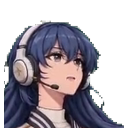
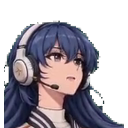
待机会动了但仍闭嘴：把最闭那一帧的嘴部羽化贴回整段
上一版待机是单帧 + 程序呼吸，因为源片全片口型都在动，找不到闭嘴动画段。
但镜头是固定的——实测耳机高亮质心在整段 24 帧里抖动不到 1.5px——
所以可以把第 6.25 秒（全片口型最闭，活跃度 3.47）的嘴部区域羽化贴回 4.92 秒那段，
得到"头发会摆、嘴不动"的待机。

- 新增 freeze-region.py：把指定矩形从某个补丁帧羽化贴到整段帧上，可复用
- 待机 24 帧 192px（464KB，首尾差 0.43）、idle-narrow 24 帧 128px（578KB，2.31）
- 8 倍放大才勉强看得出贴块接缝，56px 下不可见
- 素材合计 2552KB，预算 15360KB

测试：7 个套件全绿。

diff --git a/tools/character-pipeline/freeze-region.py b/tools/character-pipeline/freeze-region.py
@@ -1,0 +1,82 @@
+#!/usr/bin/env python
+r"""把某一帧的一块区域「冻」到整段帧上，做出源片里没有的状态。
+
+为什么需要：AI 生成的整段片子里口型一直在动，找不到"闭嘴待机"。
+但镜头是固定的（实测耳机质心在整段里抖动不到 1.5px），所以可以把最闭那一帧的
+嘴部区域羽化贴回其余帧——头发照样摆，嘴不动，等于凭空得到一段闭嘴待机。
+
+用法：
+  python freeze-region.py --frames in/ --patch closed.png --box 632,106,684,142 --out out/
+  可选 --feather 6（边缘羽化像素）、--from 21（默认取第 0 帧作补丁）
+
+注意：只适合机位固定、被冻区域周围没有大位移的镜头。贴完请肉眼过一遍。
+"""
+from __future__ import annotations
+
+import argparse
+import shutil
+from pathlib import Path
+
+import numpy as np
+from PIL import Image, ImageFilter
+
+
+def feather_mask(size: tuple[int, int], feather: int) -> Image.Image:
+    """中间 255、边缘按 feint 渐变，避免贴块有一圈硬边。"""
+    width, height = size
+    mask = Image.new('L', (width, height), 255)
+    if feather <= 0:
+        return mask
+    draw = np.full((height, width), 255, dtype=np.uint8)
+    ramp = max(1, feather)
+    for offset in range(ramp):
+        value = int(round(255 * (offset + 1) / (ramp + 1)))
+        draw[offset, :] = np.minimum(draw[offset, :], value)
+        draw[height - 1 - offset, :] = np.minimum(draw[height - 1 - offset, :], value)
+        draw[:, offset] = np.minimum(draw[:, offset], value)
+        draw[:, width - 1 - offset] = np.minimum(draw[:, width - 1 - offset], value)
+    mask = Image.fromarray(draw, 'L')
+    return mask.filter(ImageFilter.GaussianBlur(max(0.5, feather / 3)))
+
+
+def main() -> int:
+    ap = argparse.ArgumentParser()
+    ap.add_argument('--frames', required=True, help='要处理的帧目录（原地不改，输出到 --out）')
+    ap.add_argument('--patch', required=True, help='提供该区域的源图（一般就是这一帧里最闭的那张）')
+    ap.add_argument('--box', required=True, metavar='X1,Y1,X2,Y2', help='区域框（原片坐标）')
+    ap.add_argument('--out', required=True)
+    ap.add_argument('--feather', type=int, default=6, help='边缘羽化像素，默认 6')
+    args = ap.parse_args()
+
+    src_dir = Path(args.frames)
+    if not src_dir.is_dir():
+        raise SystemExit(f'找不到帧目录：{src_dir}')
+    parts = [int(p) for p in args.box.replace(' ', '').split(',')]
+    if len(parts) != 4:
+        raise SystemExit('--box 需要形如 632,106,684,142')
+    x1, y1, x2, y2 = parts
+
+    patch_image = Image.open(args.patch).convert('RGBA')
+    if not (0 <= x1 < x2 <= patch_image.width and 0 <= y1 < y2 <= patch_image.height):
+        raise SystemExit(f'区域框超出图片范围（图 {patch_image.size}）')
+    patch = patch_image.crop((x1, y1, x2, y2))
+    mask = feather_mask(patch.size, args.feather)
+
+    out_dir = Path(args.out)
+    if out_dir.exists():
+        shutil.rmtree(out_dir)
+    out_dir.mkdir(parents=True)
+
+    files = sorted(p for p in src_dir.iterdir() if p.suffix.lower() == '.png')
+    if not files:
+        raise SystemExit(f'目录里没有 png：{src_dir}')
+    for file in files:
+        frame = Image.open(file).convert('RGBA')
+        frame.paste(patch, (x1, y1), mask)
+        frame.save(out_dir / file.name)
+    print(f'已冻结 {len(files)} 帧的区域 {args.box}（羽化 {args.feather}px）→ {out_dir}')
+    return 0
+
+
+if __name__ == '__main__':
+    raise SystemExit(main())
